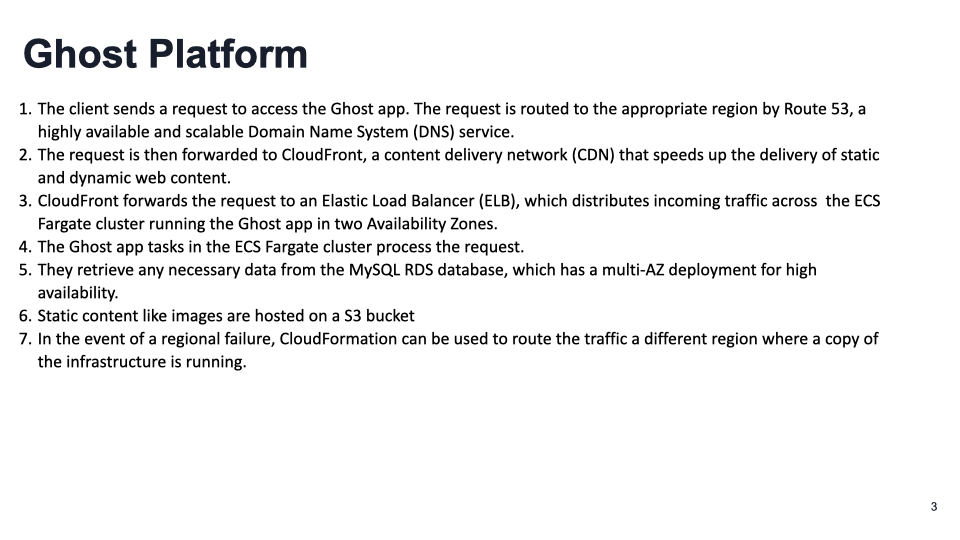
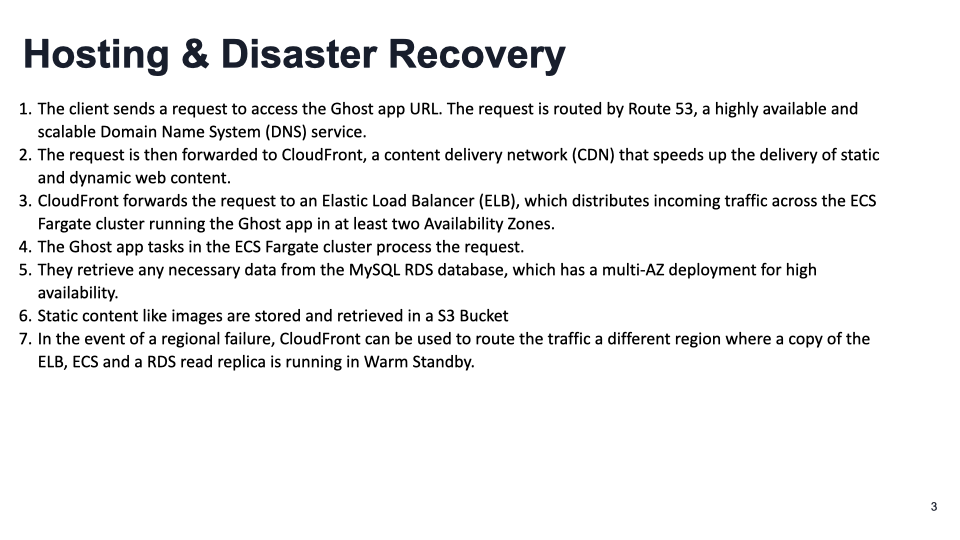
Update Readme

diff --git a/README.md b/README.md
@@ -1,16 +1,30 @@
-# Ghost in the Cloud ☁
+# ☁ Ghost in the Cloud
 
-Welcome to the Ghost in the Cloud project, a project to host the Ghost platform in the cloud. Below you find instructions for installation and a summary of the project's architecture as well as slides. 
+Welcome to the Ghost in the Cloud project, a project that hosts the Ghost platform in the cloud. The following instructions will guide you through the process of installation and provide an overview of the project's architecture.
 
-## 💻 Installation
-To get this project up and running on your own machine, follow these steps:
+# Table of Contents
 
-1. Fork https://github.com/KoehlerClem/ghost_platform and https://github.com/KoehlerClem/Ghost
-2. Initialize the submodules in Ghost:
+- [💻 Installation](#-installation)
+- [🔄 Updating the Code](#-updating-the-code)
+- [🛠 Update the Codepipeline](#-update-the-codepipeline)
+- [🗑 Use Delete Posts Lambda](#-use-delete-posts-lambda)
+- [🏗 Architecture Summary](#-architecture-summary)
+- [📚 Architecture Slides](#-architecture-slides)
+
+# 💻 Installation
+
+To set up this project on your own machine and AWS account, follow these steps:
+
+1. Fork the following repositories:
+
+- https://github.com/KoehlerClem/ghost_platform
+- https://github.com/KoehlerClem/Ghost
+
+2. Initialize the submodules in the Ghost Repository:
 
         git submodule update --init --recursive
 
-3. Create a GitHub token with these permissions:
+3. Create a GitHub token with the permissions shown in the image below:
 
 ![Token Permissions](Documentation/TokenPermissions.png)
 
@@ -18,64 +32,63 @@ To get this project up and running on your own machine, follow these steps:
 
         ./deploy.sh <aws-profile> <GitHubOwner> <ghost-aws-infra-repo> <ghost-repo> <git-branch> <github-token>
         
-    for example: 
+    For example: 
         
         ./deploy.sh default KoehlerClem ghost_platform Ghost main abc123SecretToken
 
-    Only one branch per AWS account is supported. If you want to deploy multiple branches, you need to create a new AWS account for each branch.
+Note: Only one branch per AWS account is supported. If you want to deploy multiple branches, you will need to create a new AWS account for each branch.
 
-5. ☕ Wait for about 30 minutes for the deployment to complete.
-6. In the AWS console go to the CloudFormation stack and look for the CloudFront output link. 
-7. Gost is now deployed and ready to use under the CloudFront URL!
+5. ☕ Wait for the deployment to complete (this may take approximately 30 minutes).
+6. In the AWS console, go to the CloudFormation stack and find the CloudFront output link.
+7. Ghost is now deployed and ready to use at the CloudFront URL!
 
-### Use Delete Posts Lambda
+# 🔄 Updating the Code 
 
-Create a integration for the Posts Lambda in the Ghost admin panel:
+To update the AWS infrastructure or Ghost App, push your changes to the corresponding GitHub repository and branch you declared in the deploy script. The Codepipeline will automatically detect the changes and deploy the new version. 
 
-How To: https://ghost.org/docs/admin-api/#token-authentication
+On Pull request a CodeBuild will be run to test the changes. You can find an example pull request here: https://github.com/KoehlerClem/ghost_platform/pull/3
 
-1. Go to the Ghost admin panel and go to Settings
-
-![Lambda Integration](Documentation/integration1.png)
-2. Go to Integrations
-![Lambda Integration](Documentation/integration2.png)
-3. Click on "Add custom integration"
-![Lambda Integration](Documentation/integration3.png)
-4. Enter the name of the integration and Get the Admin API Key
-
-![Lambda Integration](Documentation/integration4.png)
-
-Got to ghost-blog-Lambda and create a test:
-
-    { 
-        "ghost_Admin_API_key": "YOUR_ADMIN_API_KEY_HERE" 
-    }
-
-Click Test to run the Lambda function.
-
-## 🛠 Update the Codepipeline
+# 🛠 Update the Codepipeline
 
 To update the Codepipelines set the AWS profile:
     
     export aws_profile=<aws-profile>
 
-Updating the AWS Infrastructure as Code Pipeline:
+Updating the Ghost AWS Cloudformation Pipeline:
 
     aws cloudformation deploy --template-file CICD/codepipeline_infra.yml --stack-name codepipeline-infra --capabilities CAPABILITY_IAM --profile $aws_profile
 
 Updating the Ghost App Codepipeline:
 
     aws cloudformation deploy --template-file CICD/codepipeline_app.yml --stack-name codepipeline-app --capabilities CAPABILITY_IAM --profile $aws_profile
+    
 
-## Updating the Ghost App
+# 🗑 Use Delete Posts Lambda
 
-To update the Ghost app, simply push your changes to the Ghost GitHub repository. The Codepipeline will automatically detect the changes and deploy the new version of the Ghost app.
+The Lambda uses (Ghosts token authentication)[https://ghost.org/docs/admin-api/#token-authentication]
 
-## Updating the AWS Infrastructure
+To get a token, create a integration for the Posts Lambda in the Ghost admin panel:
 
-To update the AWS infrastructure, simply push your changes to the ghost_platform GitHub repository. The Codepipeline will automatically detect the changes and deploy the new version of the AWS infrastructure.
+1. Go to the Ghost admin panel and go to Settings.
 
-## 📝 Architecture Summary
+![Lambda Integration](Documentation/integration1.png)
+2. Go to Integrations.
+![Lambda Integration](Documentation/integration2.png)
+3. Click on "Add custom integration".
+![Lambda Integration](Documentation/integration3.png)
+4. Enter the name of the integration and get the Admin API Key
+
+![Lambda Integration](Documentation/integration4.png)
+
+In your AWS Console go to Lambdas and look for ghost-blog-Lambda. Create a test:
+
+    { 
+        "ghost_Admin_API_key": "YOUR_ADMIN_API_KEY_HERE" 
+    }
+
+Running the test will delete all posts.
+
+# 🏗 Architecture Summary
 
 In the Ghost in the Cloud project, the Ghost platform is hosted in the cloud using the following architecture:
 
@@ -101,7 +114,9 @@ Overall, this architecture allows the Ghost platform to be hosted in the cloud w
 
 While the Ghost platform is hosted in the cloud, [the Ghost platform itself is not cloud-native](https://ghost.org/docs/faq/clustering-sharding-multi-server/). This means that the Ghost platform is not optimized for the cloud and does not take advantage of the cloud's scalability and elasticity. If the CDN is not enough to handle the traffic, we should consider scaling the database or Ghost platform vertically by increasing the CPU and memory of the task definition.
 
-## 📚 Architecture Slides
+# 📚 Architecture Slides
+
+For a visual overview of the Ghost in the Cloud project, check out the slides below:
 
 ![Ghost-Blog-AWS-Architecture.001](Documentation/Ghost-Blog-AWS-Architecture.001.png)
 ![Ghost-Blog-AWS-Architecture.002](Documentation/Ghost-Blog-AWS-Architecture.002.png)
